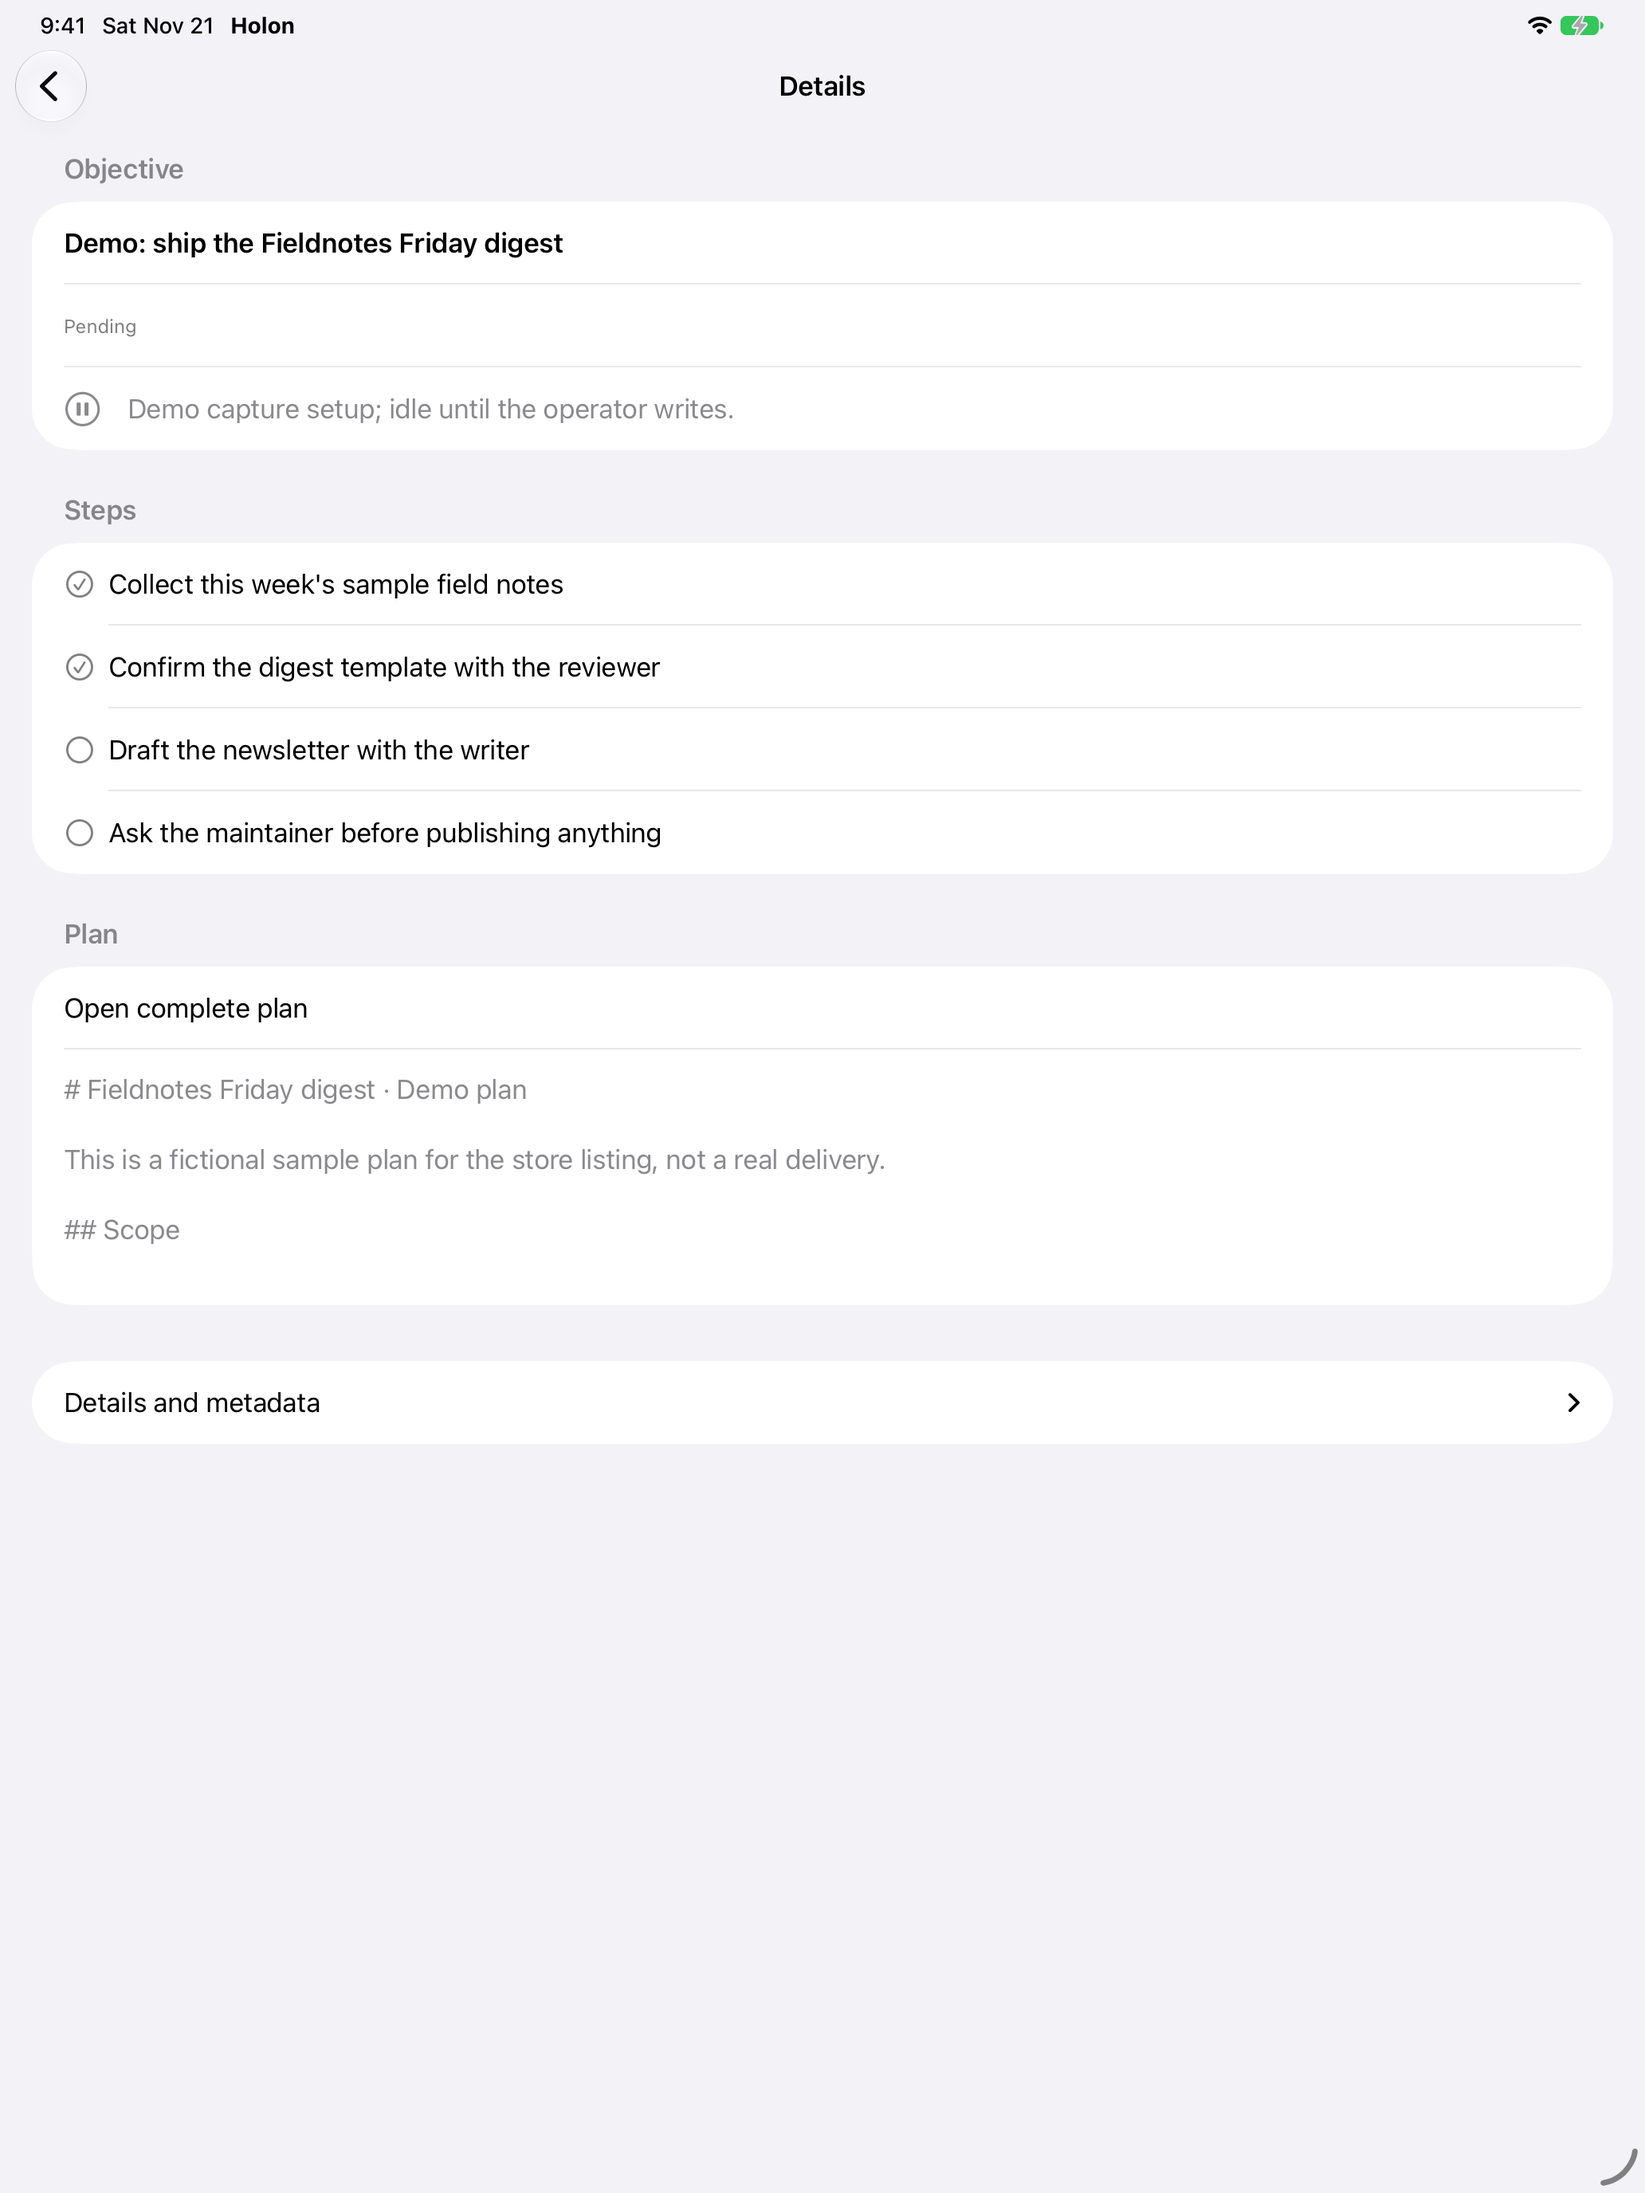
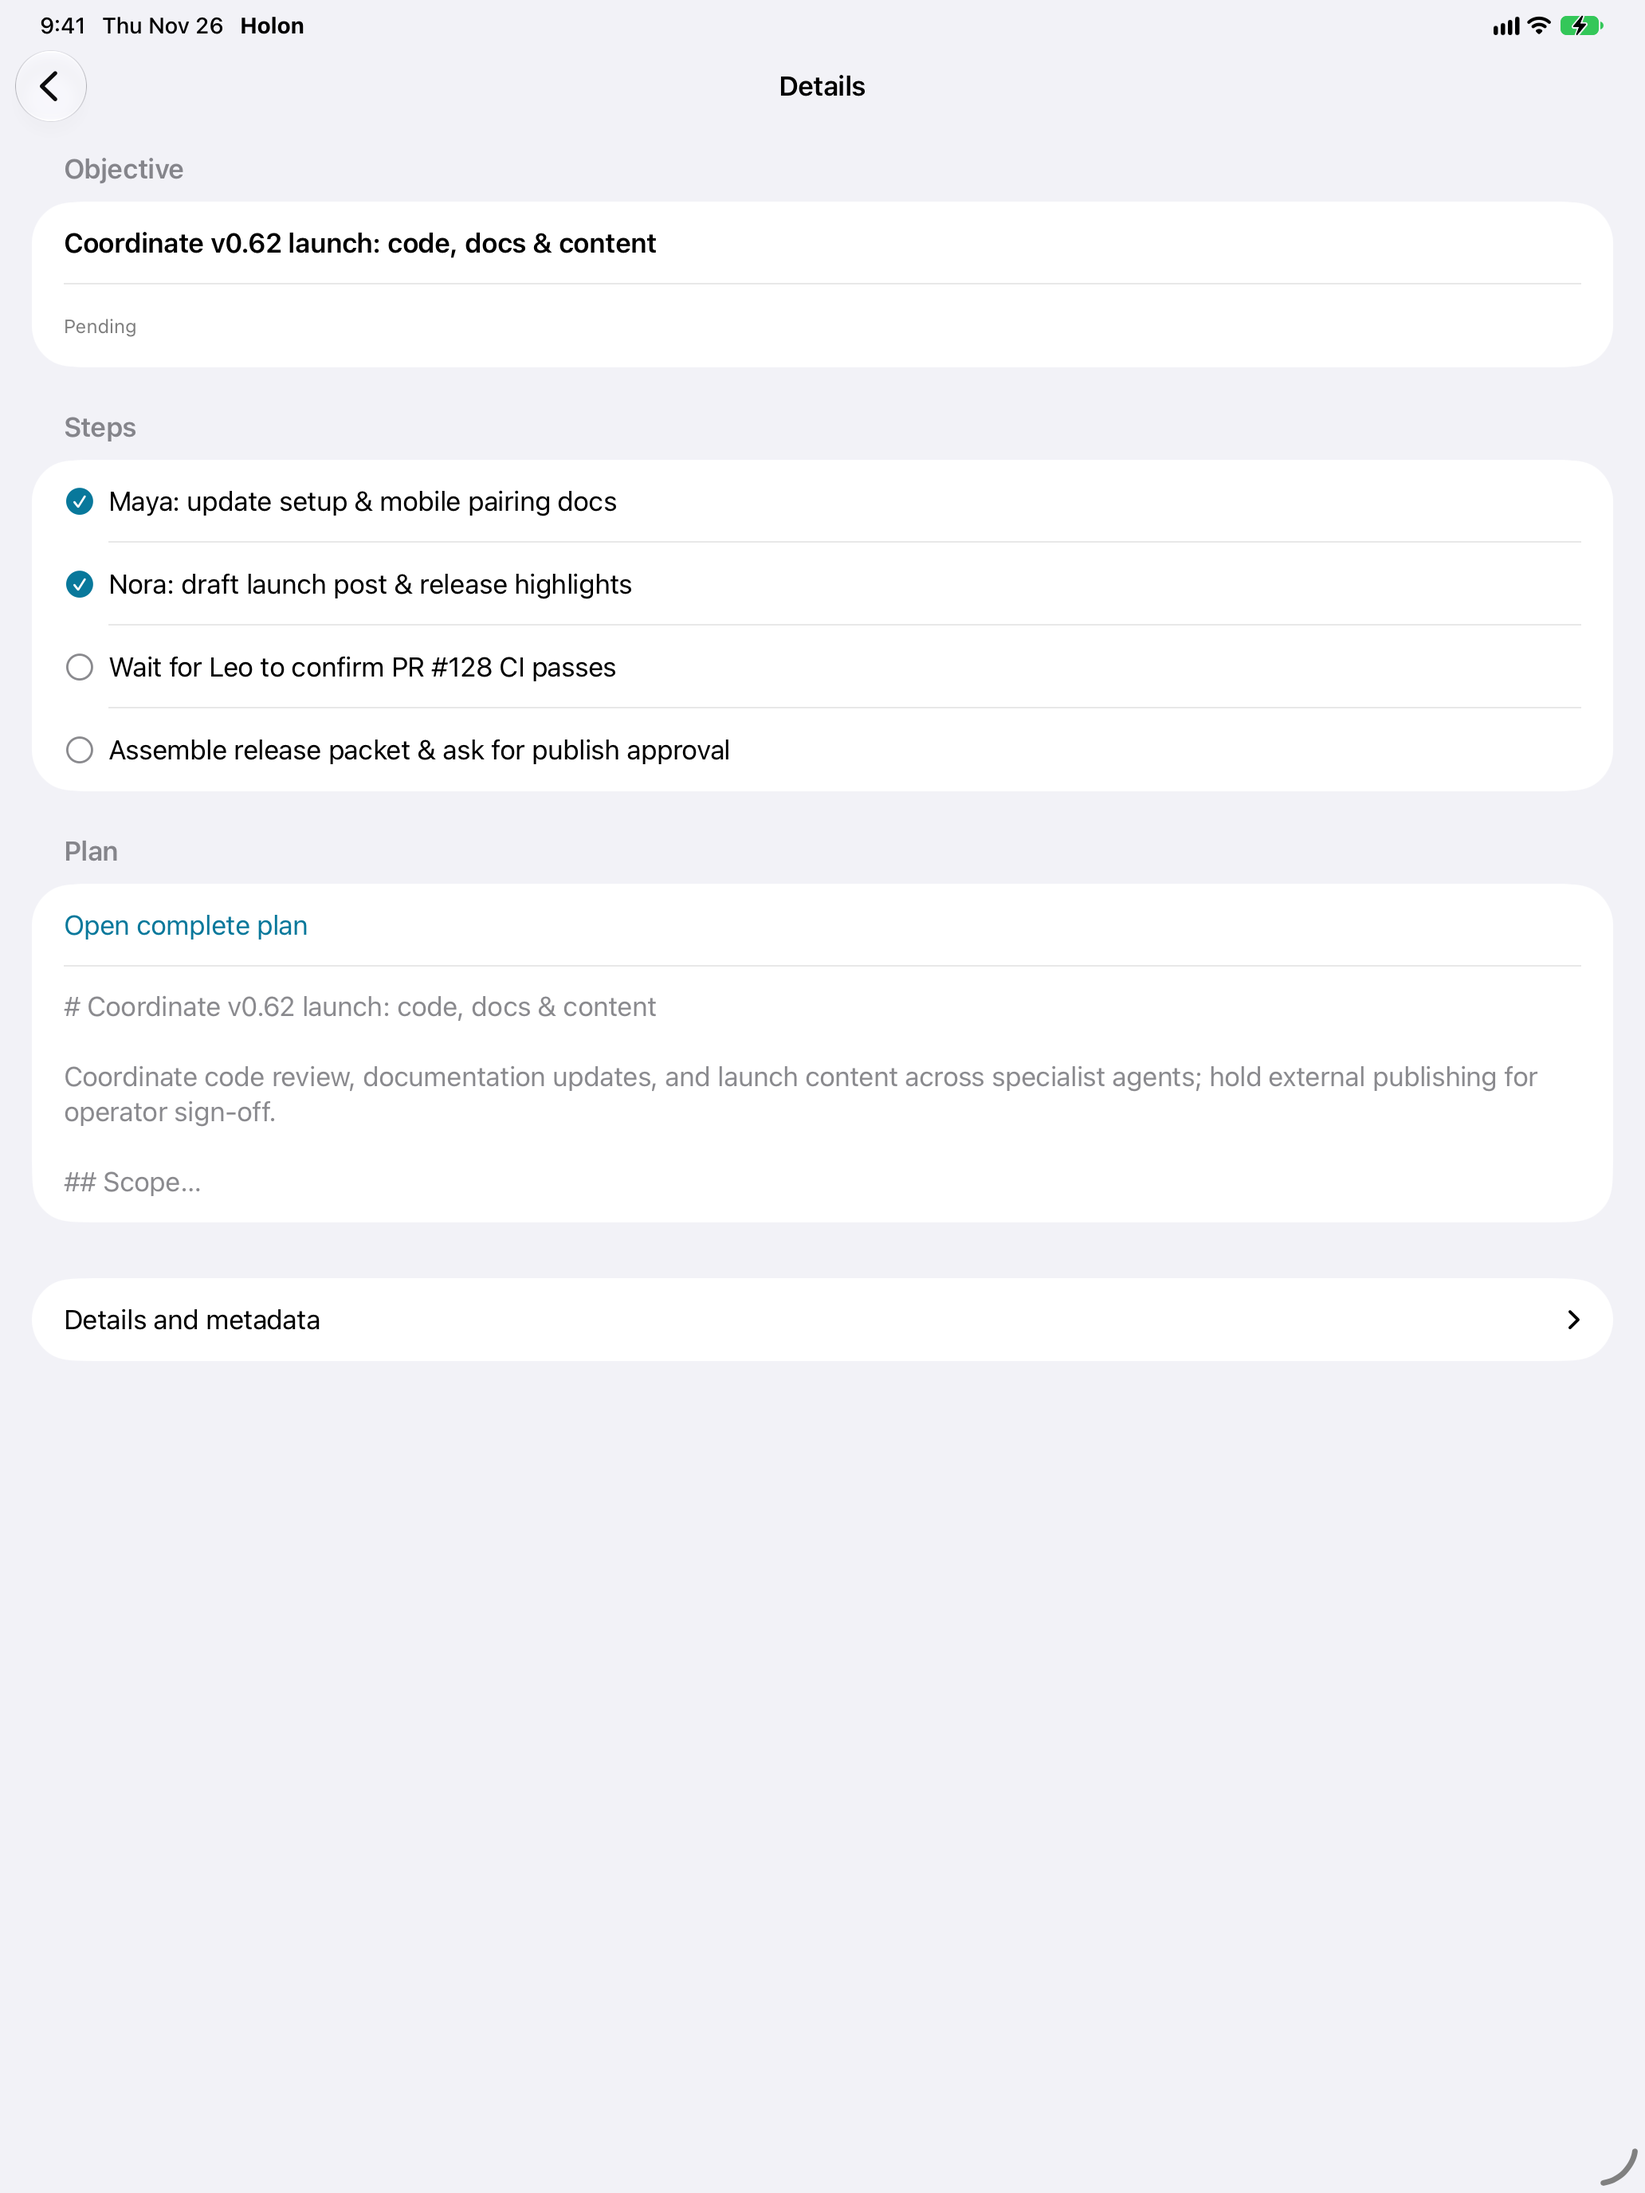
docs(ios): refresh store screenshots with updated UI and homepage scenario

diff --git a/apps/ios/store/README.md b/apps/ios/store/README.md
@@ -2,12 +2,12 @@
 
 These assets are prepared for the `en-US` App Store listing of Holon iOS
 and can also be reused on the website or in articles. They are native,
-unretouched simulator captures taken on November 21, 2026 from current
-`main` (commit `a6cd86c6`), which includes the UI improvements released
-in the TestFlight 0.1.2 (16) build (input preview, unread states,
-navigation, avatar caching, and layout stability). They replace the
-0.1.0 captures from October 2026 and are the candidate files for the
-next App Store screenshot upload.
+unretouched simulator captures taken on November 26, 2026 from the updated
+native iOS client (brand cyan `AccentColor`, compact single-row host status
+bar, balanced two-row agent roster with leading status icons and unread
+badges, symmetric conversation header with folded `Work`/`Files` menu, and
+single-row composer with folded `Model` sheet). They replace the earlier
+captures and are the candidate files for the next App Store screenshot upload.
 
 ## Files and provenance
 
@@ -28,12 +28,11 @@ a rendered plan document (`04-plan`).
 
 The captures come from a dedicated iPhone 17 Pro simulator (1206 x 2622)
 and a dedicated iPad Pro 13-inch (M5) simulator (2064 x 2752) running the
-`main` client (`a6cd86c6`, simulator Debug build) on iOS 27.0. The client
-was connected to an isolated, local-only demo Holon service with a
-disposable home, serving a fictional "Fieldnotes" project with four
-example agents. The visible content states it is fictional and
-illustrative, and every PNG was individually reviewed to confirm there are
-no error, loading, or cache banners and no credentials, tokens, or
-personal data. On iOS 27 the iPad status bar shows the frontmost app
-name, so the iPad frames read "Holon" next to the date while the iPhone
-frames do not.
+simulator Debug build on iOS 27.0. The client was connected to an isolated,
+local-only demo Holon service with a disposable home, serving the same
+synthetic v0.62 release coordination scenario used on the Holon website
+homepage (`Holon Bot`, `Nora · Growth`, `Leo · Code Review`, and `Maya · Docs`).
+Every PNG was individually reviewed to confirm there are no error, loading,
+or cache banners and no credentials, tokens, or personal data. On iOS 27
+the iPad status bar shows the frontmost app name, so the iPad frames read
+"Holon" next to the date while the iPhone frames do not.
